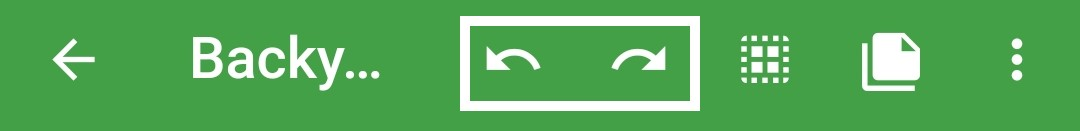
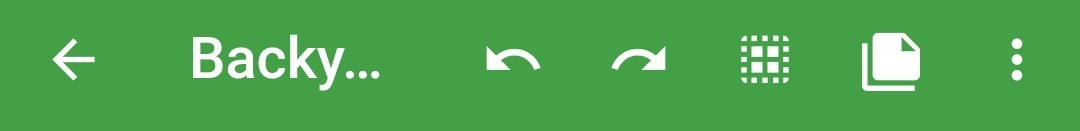
Edit undo-redo

Changed region(s): [[0.4278, 0.1221, 0.6722, 0.855]]

diff --git a/content/en/docs/100_gardens/106_undo-redo/index.md b/content/en/docs/100_gardens/106_undo-redo/index.md
@@ -8,10 +8,10 @@ url: "garden/undo-redo"
 
 Made a mistake in your garden? No sweat!
 
-You can undo (or redo) your **9 most recent actions** (including adding and removing plants, adding notes and events, and customizing backgrounds).
+You can undo (or redo) your **9 most recent actions** (including adding and removing plants, adding notes and events, and customizing backgrounds)
 
-1. Use the **Undo** button to undo actions in sequential order
+1. Use the **Undo** button{{< screenshot Undo.jpg "Screenshot of the undo button" >}} to undo actions in sequential order
 
-2. Use the **Redo** button to redo actions that have been undone
+2. Use the **Redo**{{< screenshot Redo.jpg "Screenshot of the redo button" >}} button to redo actions that have been undone
 {{< screenshot Undo-redo.jpg "Screenshot of the undo and redo buttons" >}}
 {{< alert icon="🌶" context="warning" text="You won’t able to undo or redo your actions after leaving a garden or closing Planter." />}}
